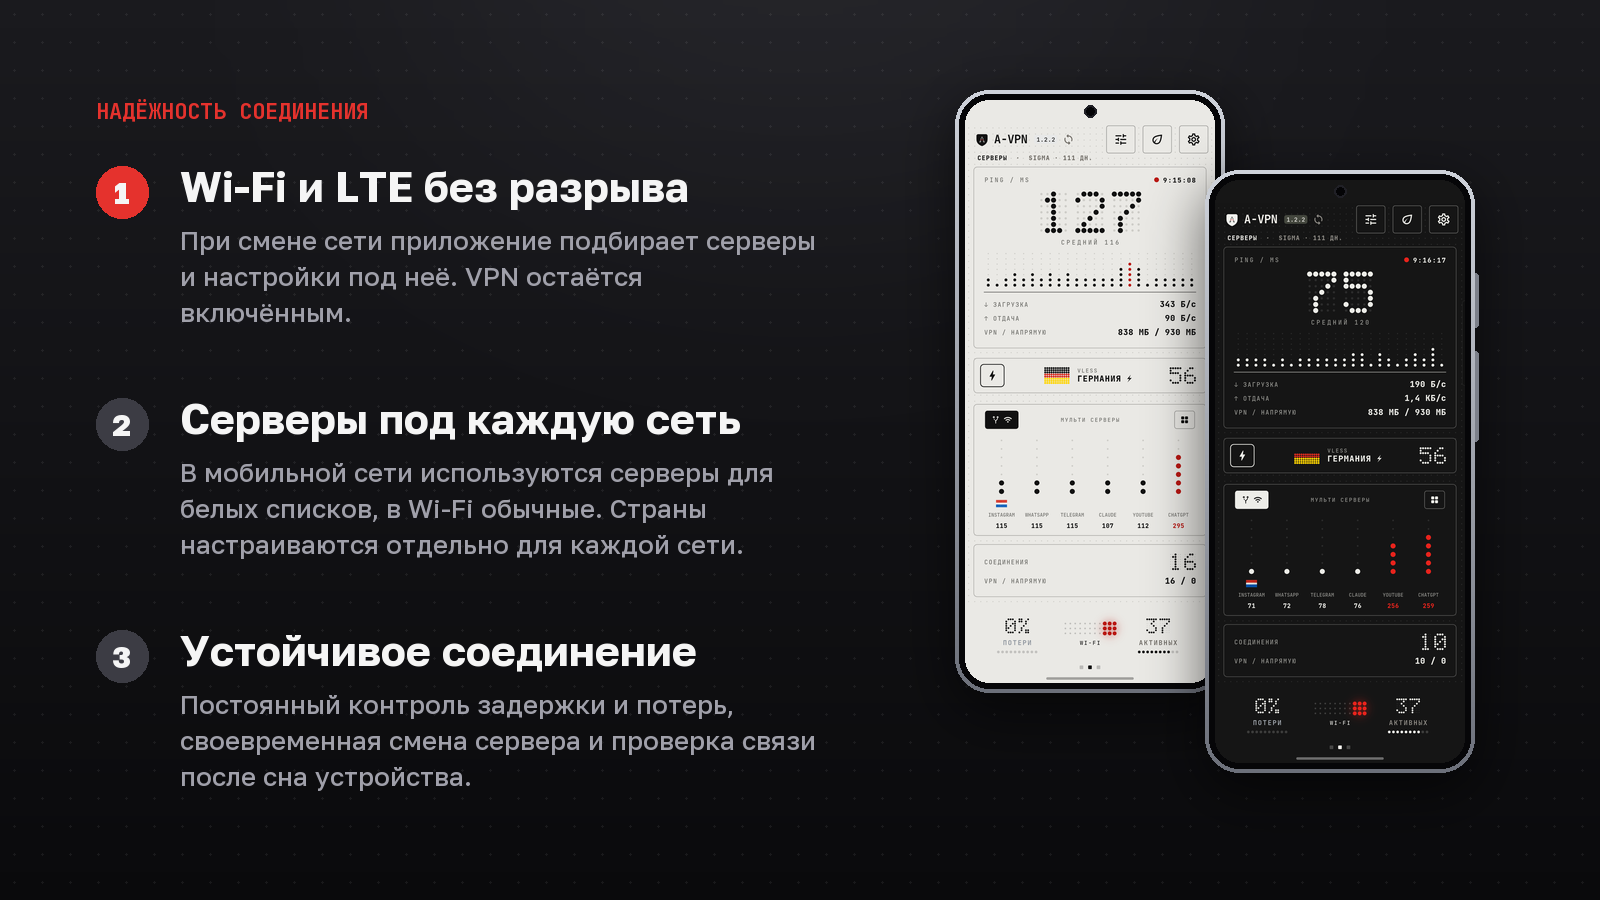
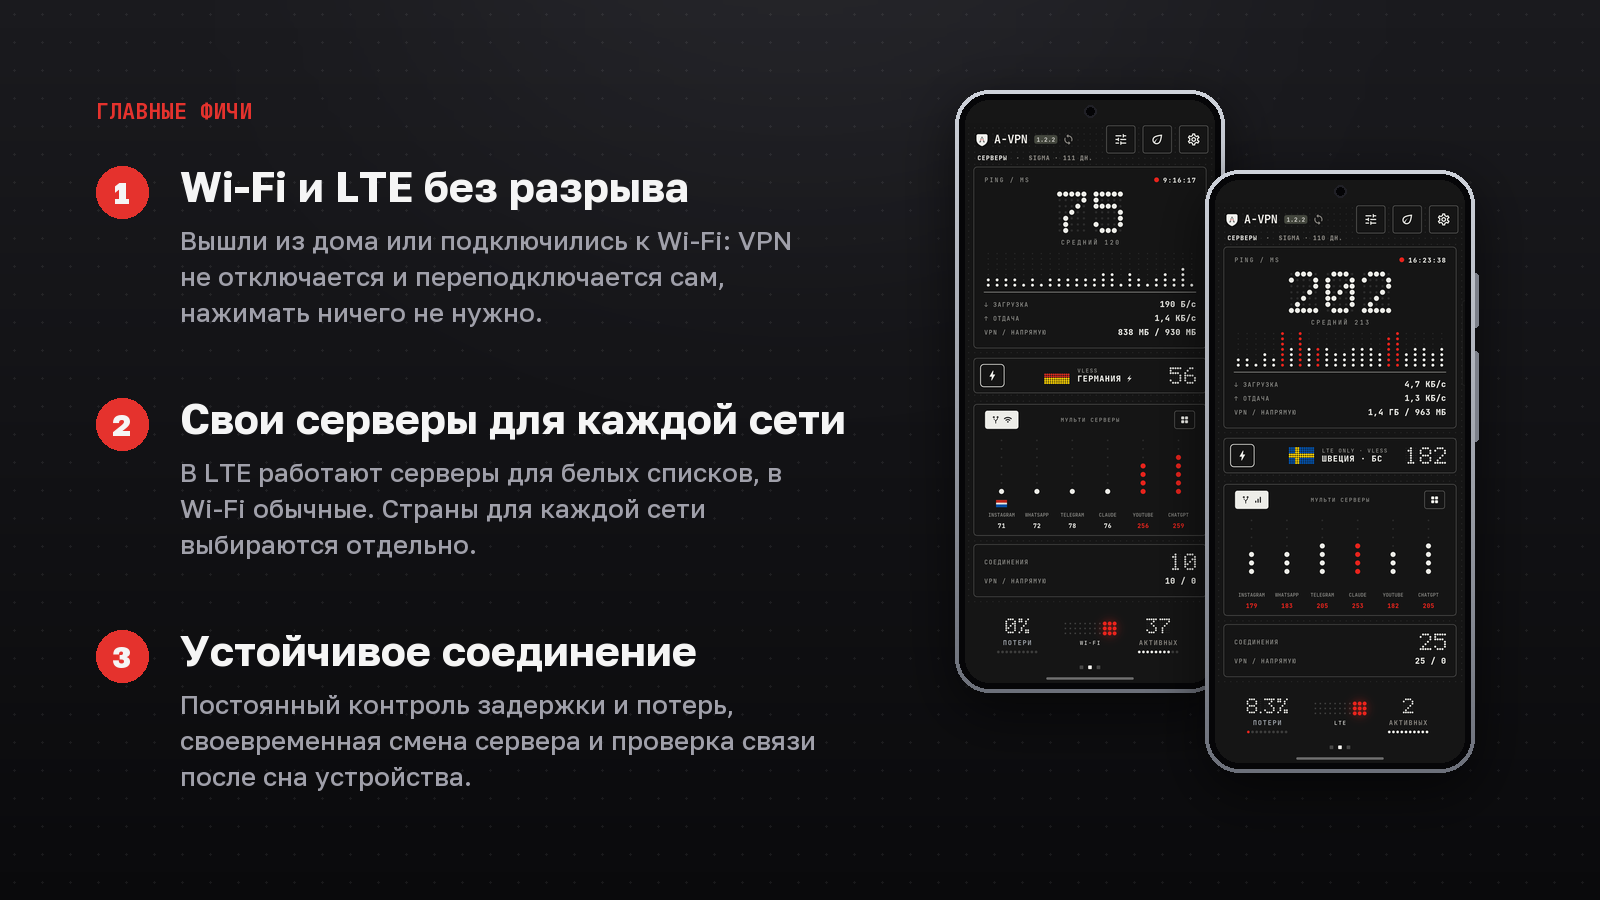
Main features block: new title, two distinct points, real LTE screenshot, equal numbering

diff --git a/README.md b/README.md
@@ -21,14 +21,14 @@
 
 > A-VPN — независимый форк [Hiddify](https://github.com/hiddify/hiddify-app), выпущенный по условиям его лицензии. Он не связан с командой Hiddify и не одобрен ею.
 
-## Надёжность соединения
+## Главные фичи
 
 <p align="center">
-  <img src="docs/screenshots/why.png" alt="Wi-Fi и LTE без разрыва, серверы под каждую сеть, устойчивое соединение">
+  <img src="docs/screenshots/why.png" alt="Wi-Fi и LTE без разрыва, свои серверы для каждой сети, устойчивое соединение">
 </p>
 
-- **Wi‑Fi и LTE без разрыва.** При смене сети серверы и настройки подбираются под неё, VPN остаётся включённым.
-- **Серверы под каждую сеть.** В мобильной сети используются серверы для белых списков, в Wi‑Fi обычные. Страны настраиваются отдельно для каждой сети.
+- **Wi‑Fi и LTE без разрыва.** Вышли из дома или подключились к Wi‑Fi: VPN не отключается и переподключается сам, нажимать ничего не нужно.
+- **Свои серверы для каждой сети.** В LTE работают серверы для белых списков, в Wi‑Fi обычные. Страны для каждой сети выбираются отдельно.
 - **Устойчивое соединение.** Приложение постоянно измеряет задержку и потери, вовремя меняет сервер, перезапускает ядро при потере связи и проверяет соединение после сна устройства.
 
 ## Возможности
